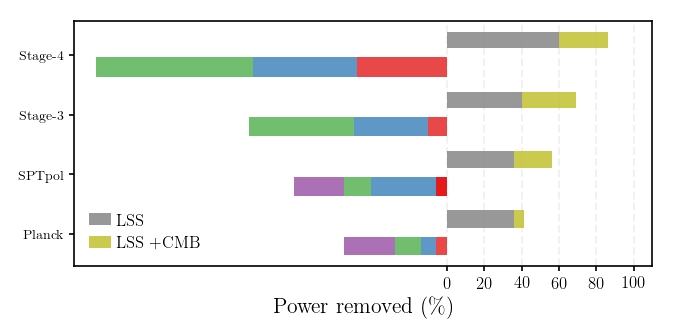
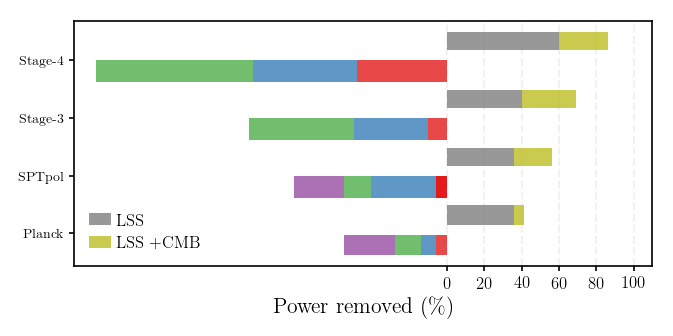
images change labels

diff --git a/Code/money_plot.py b/Code/money_plot.py
@@ -88,7 +88,8 @@ plt.close()
 fg = plt.figure(figsize=fig_dims)
 N = 4
 ind = np.arange(N)    # the x locations for the groups
-width = 0.3       # the width of the bars: can also be len(x) sequence
+ind= np.array([0,2,4,6])
+width = 0.55       # the width of the bars: can also be len(x) sequence
 
 # ==========================================
 # ==========================================
@@ -107,7 +108,7 @@ p2 = plt.barh(ind[0] + 1.5 * width, 41 - 36, width, color='#bcbd22', left=36, al
 
 # ==========================================
 plt.gca().set_prop_cycle(None)
-p1 = plt.barh(ind[1], -6., width * 1.1, left=0.)
+p1 = plt.barh(ind[1], -6., width * 1.1, left=0., alpha=0.8)
 p2 = plt.barh(ind[1], -35., width * 1.1, left=-6., alpha=0.8)
 p2 = plt.barh(ind[1], -14, width * 1.1, left=-6 - 35, alpha=0.8)
 p2 = plt.barh(ind[1], -27, width * 1.1, left=-6 - 35 - 14, alpha=0.8)
@@ -147,11 +148,11 @@ p2 = plt.barh(ind[3] + 1.5 * width, 86 - 60, width * 0.9,
 plt.legend()
 # plt.ylim(-0.2, 3.7)
 plt.xlabel(r'Power removed (\%)')
-plt.yticks(ind+0.2, ('Planck', 'SPTpol', 'Stage-3', 'Stage-4'))
-plt.xticks([0, 20,  40,  60, 80,  100])
+plt.yticks(ind + 0.2, ('Planck', 'SPTpol', 'Stage-3', 'Stage-4'))
+plt.xticks([0, 20, 40, 60, 80, 100])
 plt.xlim(-200, 110)
 # plt.legend((p1[0], p2[0]), ('Gals', 'CMB'))
-plt.grid(alpha=0.8, ls='--', lw=0.3)
+plt.grid(color='k', ls='--', lw=0.6)
 plt.gca().yaxis.grid(False)
 
 plt.gca().set_axisbelow(True)

diff --git a/Code/money_plot_thesis.py b/Code/money_plot_thesis.py
@@ -88,7 +88,8 @@ plt.close()
 fg = plt.figure(figsize=fig_dims)
 N = 4
 ind = np.arange(N)    # the x locations for the groups
-width = 0.3       # the width of the bars: can also be len(x) sequence
+ind= np.array([0,2,4,6])
+width = 0.55       # the width of the bars: can also be len(x) sequence
 
 # ==========================================
 # ==========================================
@@ -107,7 +108,7 @@ p2 = plt.barh(ind[0] + 1.5 * width, 41 - 36, width, color='#bcbd22', left=36, al
 
 # ==========================================
 plt.gca().set_prop_cycle(None)
-p1 = plt.barh(ind[1], -6., width * 1.1, left=0.)
+p1 = plt.barh(ind[1], -6., width * 1.1, left=0., alpha=0.8)
 p2 = plt.barh(ind[1], -35., width * 1.1, left=-6., alpha=0.8)
 p2 = plt.barh(ind[1], -14, width * 1.1, left=-6 - 35, alpha=0.8)
 p2 = plt.barh(ind[1], -27, width * 1.1, left=-6 - 35 - 14, alpha=0.8)
@@ -147,11 +148,11 @@ p2 = plt.barh(ind[3] + 1.5 * width, 86 - 60, width * 0.9,
 plt.legend()
 # plt.ylim(-0.2, 3.7)
 plt.xlabel(r'Power removed (\%)')
-plt.yticks(ind+0.2, ('Planck', 'SPTpol', 'Stage-3', 'Stage-4'))
-plt.xticks([0, 20,  40,  60, 80,  100])
+plt.yticks(ind + 0.2, ('Planck', 'SPTpol', 'Stage-3', 'Stage-4'))
+plt.xticks([0, 20, 40, 60, 80, 100])
 plt.xlim(-200, 110)
 # plt.legend((p1[0], p2[0]), ('Gals', 'CMB'))
-plt.grid(alpha=0.8, ls='--', lw=0.3)
+plt.grid(color='k', ls='--', lw=0.6)
 plt.gca().yaxis.grid(False)
 
 plt.gca().set_axisbelow(True)
